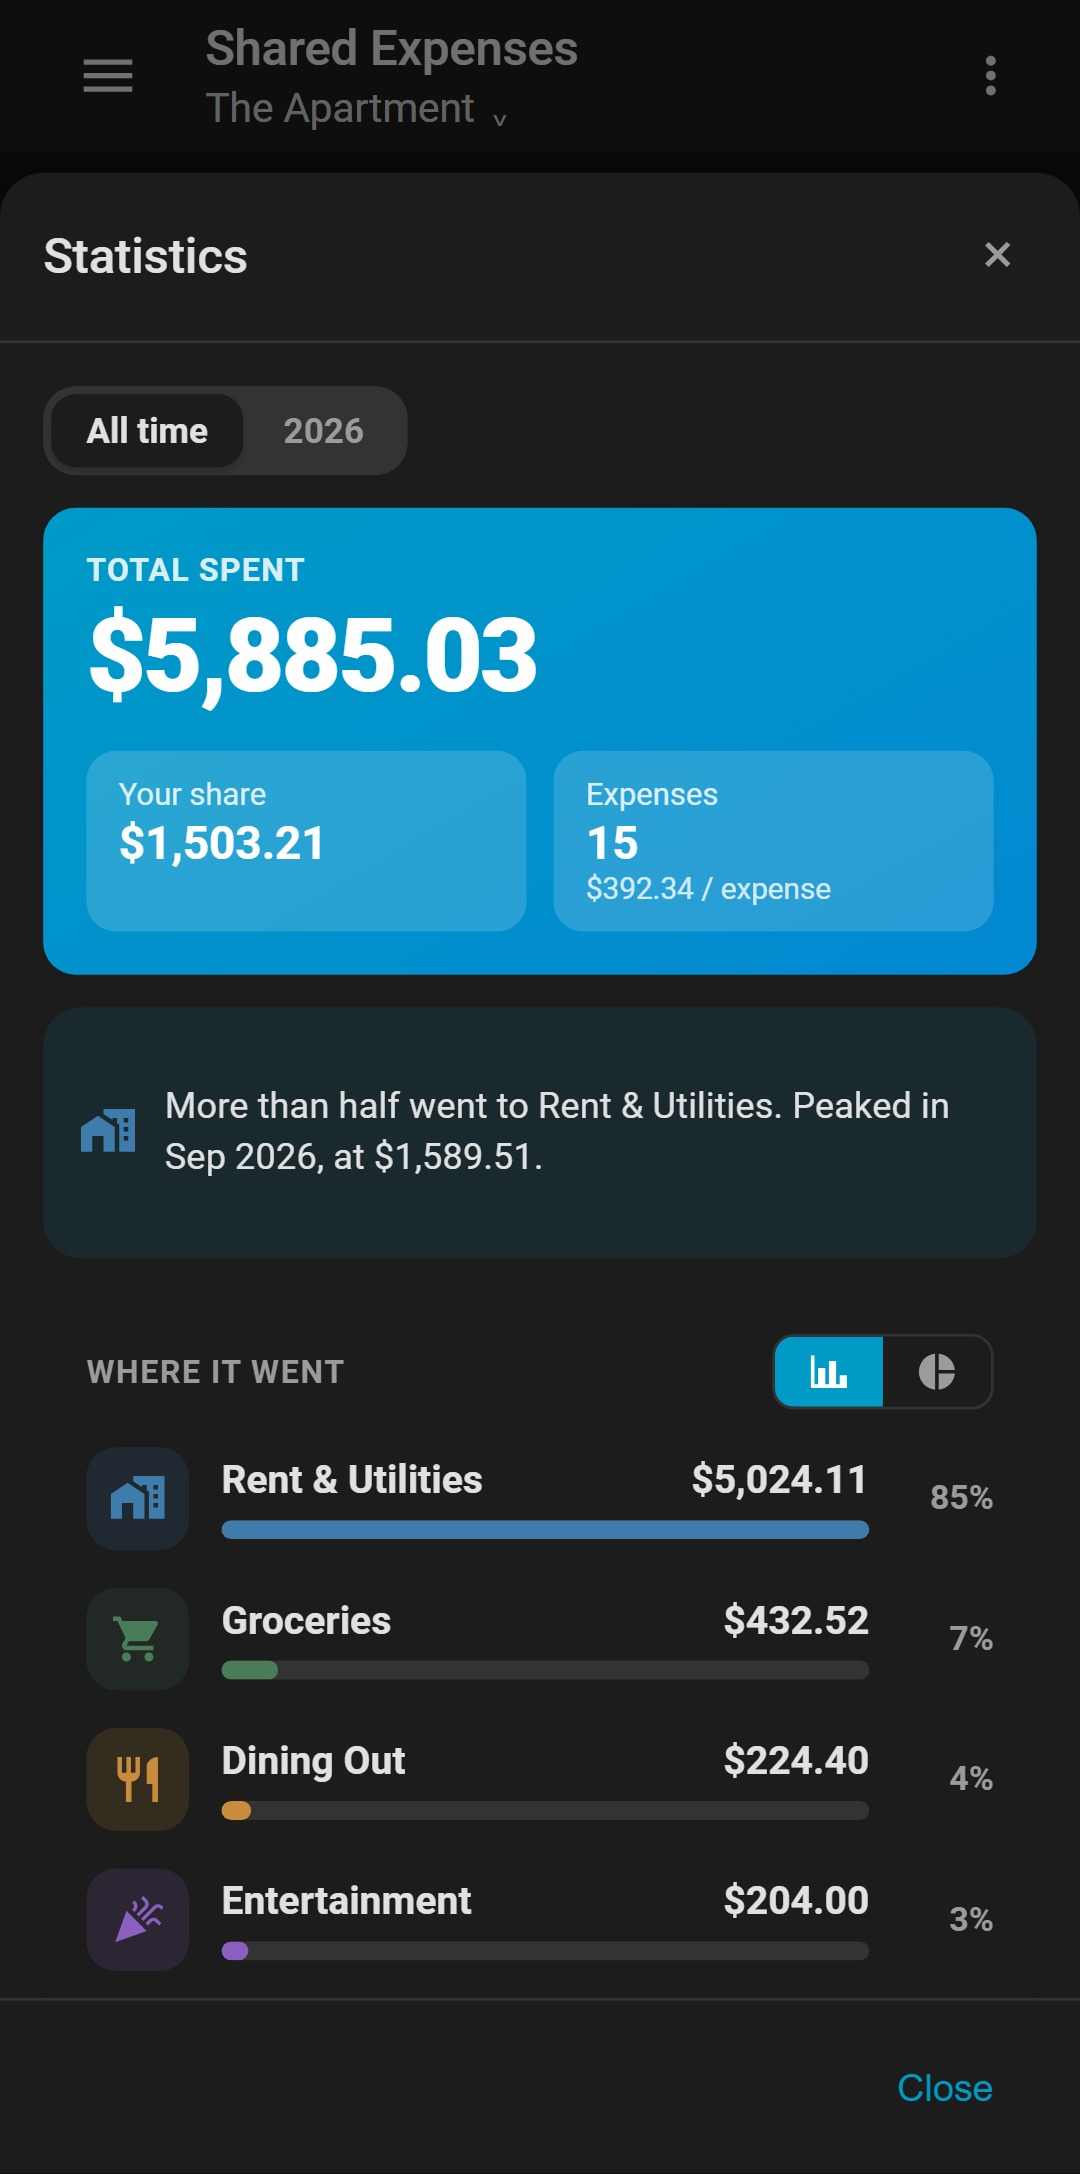
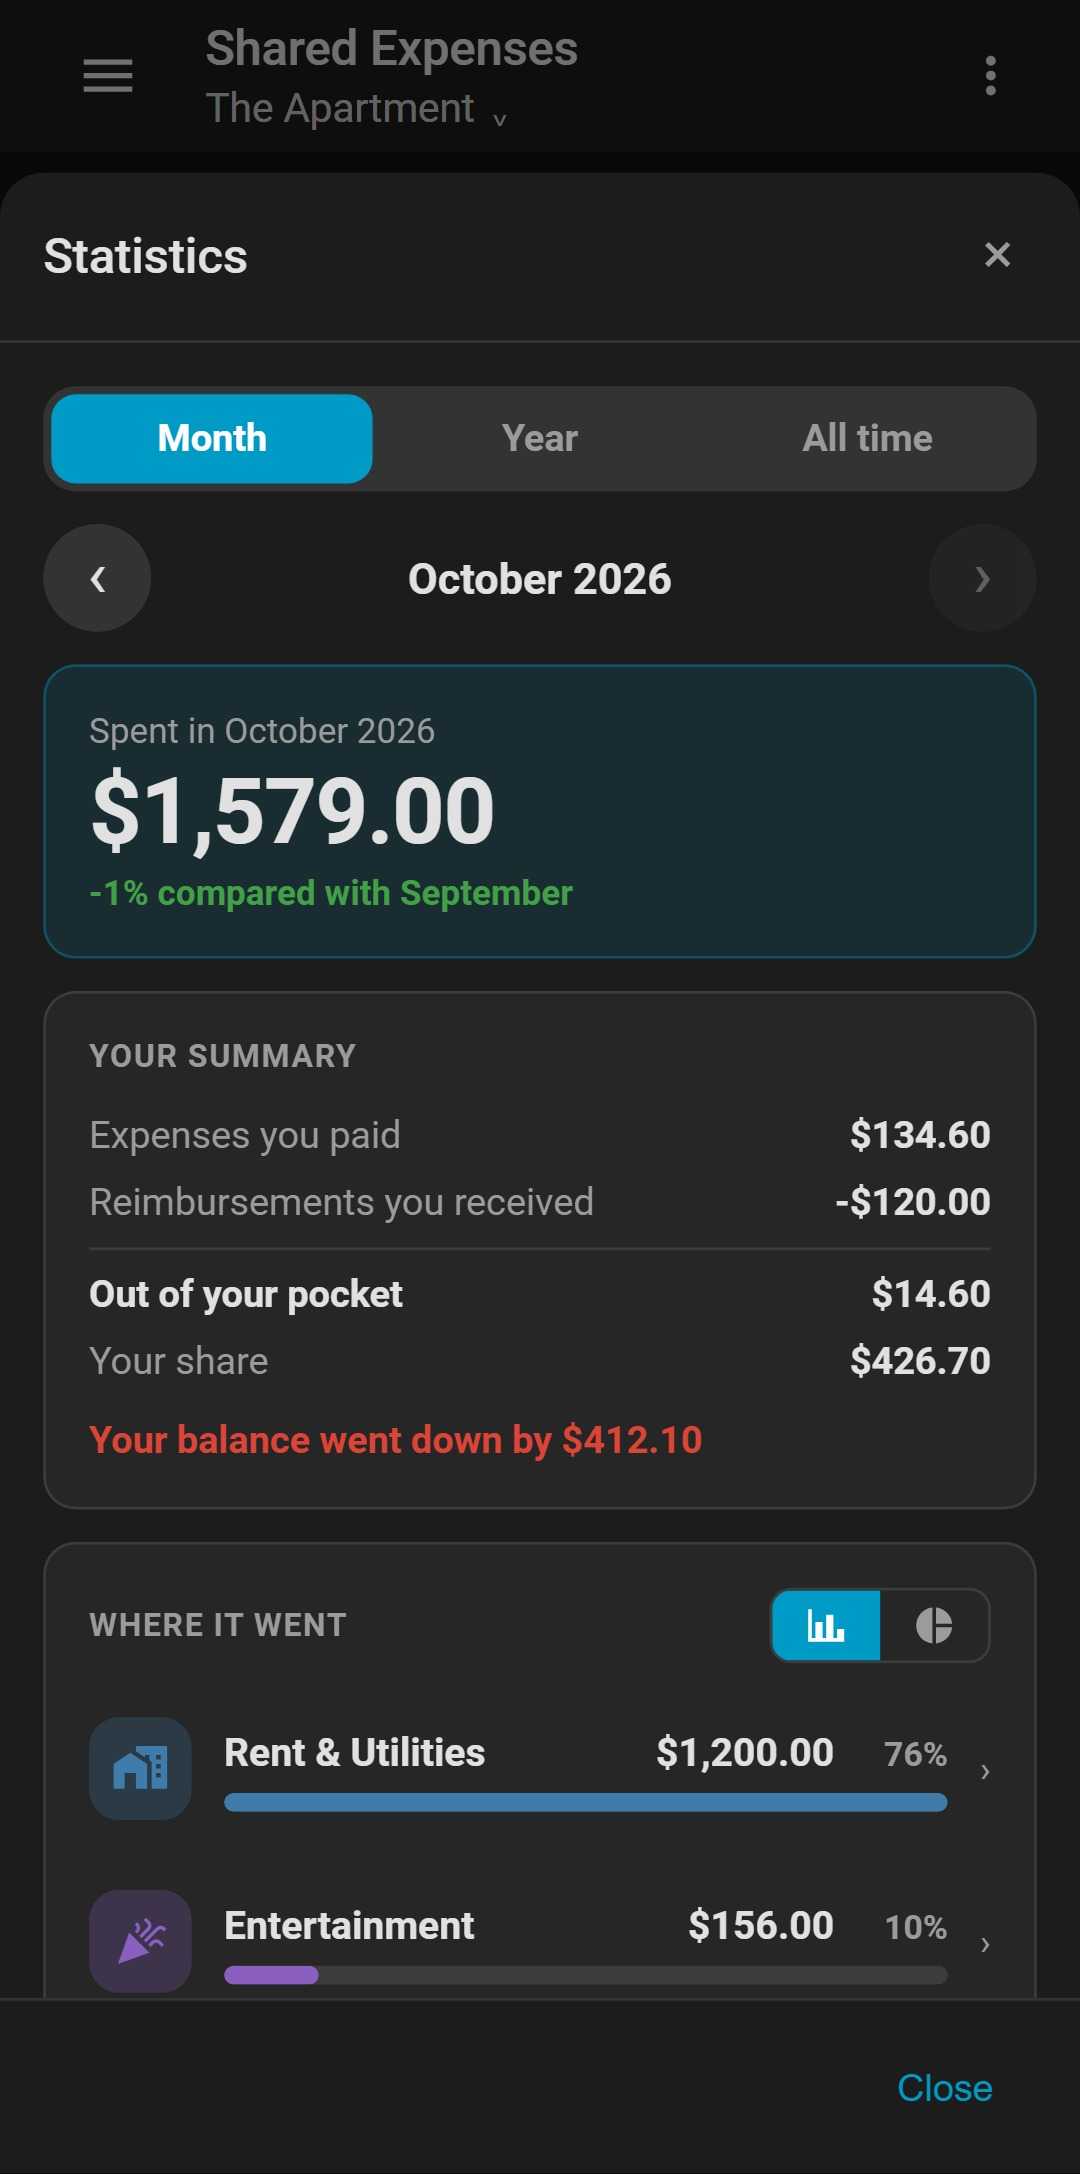
docs: the README shows the statistics as they are
The picture of the statistics, the third phone at the top and the end of
the tour all showed the page from before 1.2.0: all time by default, a
block of solid blue, "Owes" on each member. Somebody reading the README
was shown a page they would not find on installing.

06-statistics is retaken on a re-seeded Home Assistant, opening as the
page now does on the last month spent in, with the summary under the
total and the categories that open their expenses. The three phones are
rebuilt around it from the committed 02 and 03, which a re-seed would
have changed for reasons unrelated to the page. The tour is recorded
again: its expense dialog reads in English now that 1.1.2 translated the
examples it used to show in French, and it ends on the new statistics,
bars then ring. Its cuts were checked frame against frame rather than
trusted from the last recording.

diff --git a/docs/roadmap.md b/docs/roadmap.md
@@ -846,6 +846,10 @@ something false about people.
       handed down. A row with nowhere to go has no chevron and no target.
 - [x] Which month an expense falls in is read in UTC, the zone a typed day is
       filed in, by a function under test beside the rest of the period logic.
+- [x] The README shows the statistics as they are: `06-statistics`, the three
+      phones at the top and the tour retaken on a re-seeded Home Assistant. The
+      tour's expense dialog now reads in English, since 1.1.2 translated its
+      examples.
 
 ## Later
 
@@ -882,11 +886,6 @@ something false about people.
 - [ ] `formatSignedMoney` would put a "+" back on a refund, and keep a second
       signal for whoever reads colour poorly, if that turns out to matter more
       than the quiet figure does.
-- [ ] Re-record the tour, and retake `06-statistics`. The tour still shows the
-      French examples of the expense dialog for two seconds and both show the
-      statistics as they were before Sprint 29; they have to be redone on a
-      re-seeded Home Assistant with the screenshot tooling kept outside the
-      repository.
 - [ ] The icon in HACS's list. HACS 2.0.5 asks `brands.home-assistant.io`
       directly, which no longer takes custom integrations, so the list shows a
       blank tile while the rest of Home Assistant reads `brand/` through its
